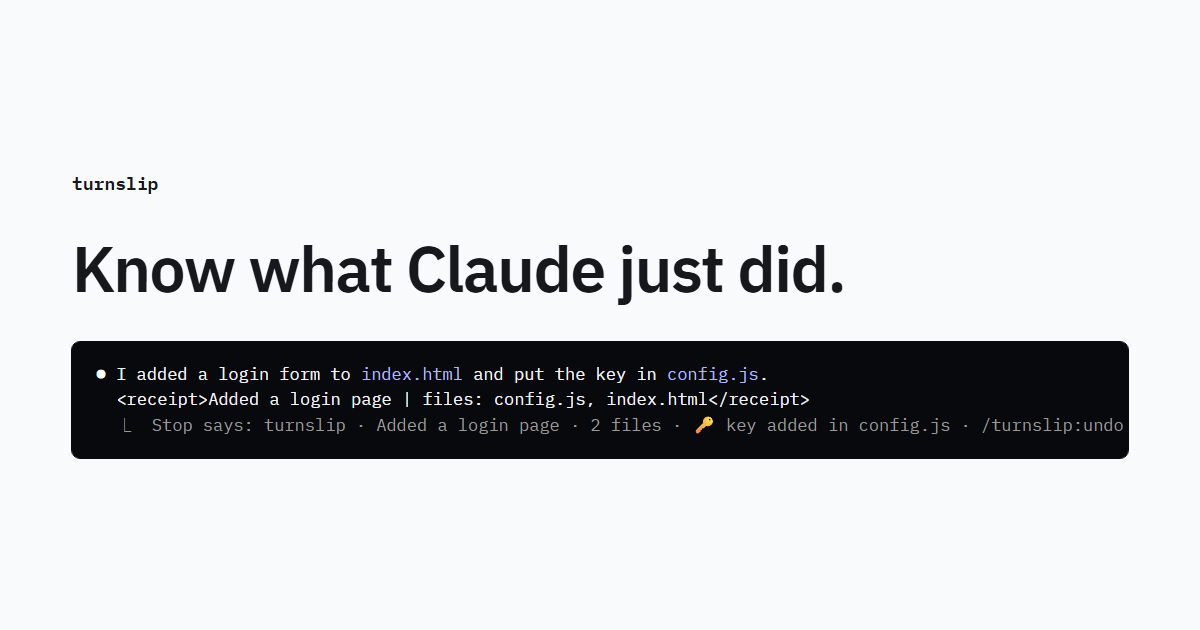
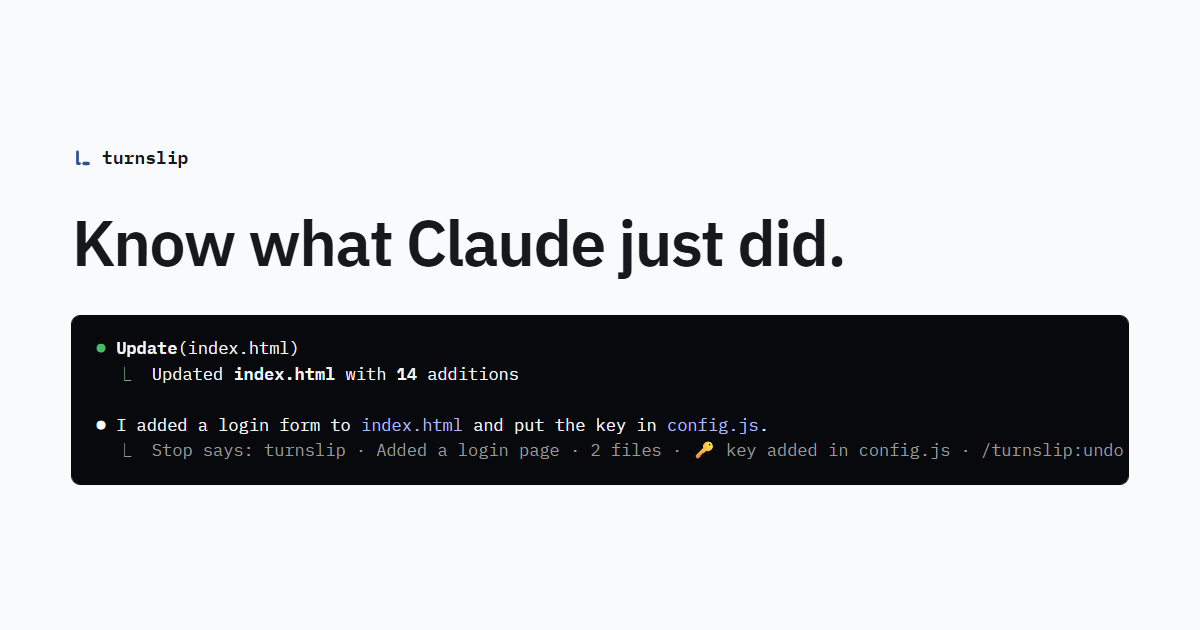
mirror: publish 224702c

Changed region(s): [[0.0617, 0.3317, 0.9558, 0.7841], [0.0617, 0.2413, 0.1542, 0.3016]]

diff --git a/site/index.html b/site/index.html
@@ -9,9 +9,10 @@
   <meta name="theme-color" content="#F9FAFB" media="(prefers-color-scheme: light)">
   <meta name="theme-color" content="#17181C" media="(prefers-color-scheme: dark)">
   <link rel="icon" href="/favicon.svg" type="image/svg+xml">
+  <link rel="apple-touch-icon" href="/apple-touch-icon.png">
   <link rel="preload" href="/fonts/plex-sans-latin-wght.v530.woff2" as="font" type="font/woff2" crossorigin>
   <link rel="preload" href="/fonts/plex-mono-latin-400.v530.woff2" as="font" type="font/woff2" crossorigin>
-  <link rel="stylesheet" href="/style.v1.css">
+  <link rel="stylesheet" href="/style.v2.css">
   <meta property="og:type" content="website">
   <meta property="og:url" content="https://turnslip.dev/">
   <meta property="og:title" content="turnslip: know what Claude just did">
@@ -38,7 +39,7 @@
   <!--email_off-->
   <a class="skip" href="#main">Skip to content</a>
   <header class="site">
-    <a class="brand" href="/">turnslip</a>
+    <a class="brand" href="/"><svg class="mark" viewBox="0 0 32 32" aria-hidden="true" focusable="false"><path d="M8 7v17h3" fill="none" stroke="currentColor" stroke-width="4" stroke-linecap="round" stroke-linejoin="round"/><rect x="15" y="21.5" width="11" height="5" rx="2.5" fill="currentColor"/></svg>turnslip</a>
     <nav aria-label="Site">
       <a href="/#how">How it works</a>
       <a href="/#pricing">Pricing</a>
@@ -66,7 +67,6 @@
 <span class="cc-dim">  ⎿</span>  Updated <b>index.html</b> with <b>14</b> additions
 
 <span class="cc-reply">●</span> I added a login form to <span class="cc-file">index.html</span> and put the key in <span class="cc-file">config.js</span>.
-  &lt;receipt&gt;Added a login page | files: config.js, index.html&lt;/receipt&gt;
 <span class="slip">  ⎿  Stop says: turnslip · Added a login page · 2 files · 🔑 key added in config.js · /turnslip:undo</span></div>
       </figure>
       <p class="callout" id="how">This line is turnslip. It lists what changed on disk, flags the risky parts, and names the undo.</p>

diff --git a/site/og.html b/site/og.html
@@ -3,13 +3,15 @@
 <head>
   <meta charset="utf-8">
   <title>turnslip social image</title>
-  <link rel="stylesheet" href="/style.v1.css">
+  <link rel="stylesheet" href="/style.v2.css">
 </head>
 <body class="og">
-  <p class="brand">turnslip</p>
+  <p class="brand"><svg class="mark" viewBox="0 0 32 32" aria-hidden="true" focusable="false"><path d="M8 7v17h3" fill="none" stroke="currentColor" stroke-width="4" stroke-linecap="round" stroke-linejoin="round"/><rect x="15" y="21.5" width="11" height="5" rx="2.5" fill="currentColor"/></svg>turnslip</p>
   <h1 class="display">Know what Claude just did.</h1>
-  <div class="term"><span class="cc-reply">●</span> I added a login form to <span class="cc-file">index.html</span> and put the key in <span class="cc-file">config.js</span>.
-  &lt;receipt&gt;Added a login page | files: config.js, index.html&lt;/receipt&gt;
+  <div class="term"><span class="cc-tool">●</span> <b>Update</b>(index.html)
+<span class="cc-dim">  ⎿</span>  Updated <b>index.html</b> with <b>14</b> additions
+
+<span class="cc-reply">●</span> I added a login form to <span class="cc-file">index.html</span> and put the key in <span class="cc-file">config.js</span>.
 <span class="slip">  ⎿  Stop says: turnslip · Added a login page · 2 files · 🔑 key added in config.js · /turnslip:undo</span></div>
 </body>
 </html>

diff --git a/site/404.html b/site/404.html
@@ -9,15 +9,16 @@
   <meta name="theme-color" content="#F9FAFB" media="(prefers-color-scheme: light)">
   <meta name="theme-color" content="#17181C" media="(prefers-color-scheme: dark)">
   <link rel="icon" href="/favicon.svg" type="image/svg+xml">
+  <link rel="apple-touch-icon" href="/apple-touch-icon.png">
   <link rel="preload" href="/fonts/plex-sans-latin-wght.v530.woff2" as="font" type="font/woff2" crossorigin>
   <link rel="preload" href="/fonts/plex-mono-latin-400.v530.woff2" as="font" type="font/woff2" crossorigin>
-  <link rel="stylesheet" href="/style.v1.css">
+  <link rel="stylesheet" href="/style.v2.css">
 </head>
 <body>
   <!--email_off-->
   <a class="skip" href="#main">Skip to content</a>
   <header class="site">
-    <a class="brand" href="/">turnslip</a>
+    <a class="brand" href="/"><svg class="mark" viewBox="0 0 32 32" aria-hidden="true" focusable="false"><path d="M8 7v17h3" fill="none" stroke="currentColor" stroke-width="4" stroke-linecap="round" stroke-linejoin="round"/><rect x="15" y="21.5" width="11" height="5" rx="2.5" fill="currentColor"/></svg>turnslip</a>
     <nav aria-label="Site">
       <a href="/#how">How it works</a>
       <a href="/#pricing">Pricing</a>

diff --git a/site/privacy.html b/site/privacy.html
@@ -9,15 +9,16 @@
   <meta name="theme-color" content="#F9FAFB" media="(prefers-color-scheme: light)">
   <meta name="theme-color" content="#17181C" media="(prefers-color-scheme: dark)">
   <link rel="icon" href="/favicon.svg" type="image/svg+xml">
+  <link rel="apple-touch-icon" href="/apple-touch-icon.png">
   <link rel="preload" href="/fonts/plex-sans-latin-wght.v530.woff2" as="font" type="font/woff2" crossorigin>
   <link rel="preload" href="/fonts/plex-mono-latin-400.v530.woff2" as="font" type="font/woff2" crossorigin>
-  <link rel="stylesheet" href="/style.v1.css">
+  <link rel="stylesheet" href="/style.v2.css">
 </head>
 <body>
   <!--email_off-->
   <a class="skip" href="#main">Skip to content</a>
   <header class="site">
-    <a class="brand" href="/">turnslip</a>
+    <a class="brand" href="/"><svg class="mark" viewBox="0 0 32 32" aria-hidden="true" focusable="false"><path d="M8 7v17h3" fill="none" stroke="currentColor" stroke-width="4" stroke-linecap="round" stroke-linejoin="round"/><rect x="15" y="21.5" width="11" height="5" rx="2.5" fill="currentColor"/></svg>turnslip</a>
     <nav aria-label="Site">
       <a href="/#how">How it works</a>
       <a href="/#pricing">Pricing</a>

diff --git a/site/refunds.html b/site/refunds.html
@@ -9,15 +9,16 @@
   <meta name="theme-color" content="#F9FAFB" media="(prefers-color-scheme: light)">
   <meta name="theme-color" content="#17181C" media="(prefers-color-scheme: dark)">
   <link rel="icon" href="/favicon.svg" type="image/svg+xml">
+  <link rel="apple-touch-icon" href="/apple-touch-icon.png">
   <link rel="preload" href="/fonts/plex-sans-latin-wght.v530.woff2" as="font" type="font/woff2" crossorigin>
   <link rel="preload" href="/fonts/plex-mono-latin-400.v530.woff2" as="font" type="font/woff2" crossorigin>
-  <link rel="stylesheet" href="/style.v1.css">
+  <link rel="stylesheet" href="/style.v2.css">
 </head>
 <body>
   <!--email_off-->
   <a class="skip" href="#main">Skip to content</a>
   <header class="site">
-    <a class="brand" href="/">turnslip</a>
+    <a class="brand" href="/"><svg class="mark" viewBox="0 0 32 32" aria-hidden="true" focusable="false"><path d="M8 7v17h3" fill="none" stroke="currentColor" stroke-width="4" stroke-linecap="round" stroke-linejoin="round"/><rect x="15" y="21.5" width="11" height="5" rx="2.5" fill="currentColor"/></svg>turnslip</a>
     <nav aria-label="Site">
       <a href="/#how">How it works</a>
       <a href="/#pricing">Pricing</a>

diff --git a/site/terms.html b/site/terms.html
@@ -9,15 +9,16 @@
   <meta name="theme-color" content="#F9FAFB" media="(prefers-color-scheme: light)">
   <meta name="theme-color" content="#17181C" media="(prefers-color-scheme: dark)">
   <link rel="icon" href="/favicon.svg" type="image/svg+xml">
+  <link rel="apple-touch-icon" href="/apple-touch-icon.png">
   <link rel="preload" href="/fonts/plex-sans-latin-wght.v530.woff2" as="font" type="font/woff2" crossorigin>
   <link rel="preload" href="/fonts/plex-mono-latin-400.v530.woff2" as="font" type="font/woff2" crossorigin>
-  <link rel="stylesheet" href="/style.v1.css">
+  <link rel="stylesheet" href="/style.v2.css">
 </head>
 <body>
   <!--email_off-->
   <a class="skip" href="#main">Skip to content</a>
   <header class="site">
-    <a class="brand" href="/">turnslip</a>
+    <a class="brand" href="/"><svg class="mark" viewBox="0 0 32 32" aria-hidden="true" focusable="false"><path d="M8 7v17h3" fill="none" stroke="currentColor" stroke-width="4" stroke-linecap="round" stroke-linejoin="round"/><rect x="15" y="21.5" width="11" height="5" rx="2.5" fill="currentColor"/></svg>turnslip</a>
     <nav aria-label="Site">
       <a href="/#how">How it works</a>
       <a href="/#pricing">Pricing</a>

diff --git a/site/style.v2.css b/site/style.v2.css
@@ -132,7 +132,8 @@ header.site, main, footer.site { max-width: 1120px; margin-inline: auto; padding
 @media (min-width: 768px) { header.site, main, footer.site { padding-inline: 32px; } }
 
 header.site { display: flex; flex-wrap: wrap; align-items: center; justify-content: space-between; gap: 12px 24px; padding-block: 20px; }
-.brand { font: 600 1.125rem var(--mono); color: var(--head); text-decoration: none; }
+.brand { display: inline-flex; align-items: center; gap: 8px; font: 600 1.125rem var(--mono); color: var(--head); text-decoration: none; }
+.mark { width: 22px; height: 22px; flex: none; color: var(--link); }
 header.site nav, footer.site nav { display: flex; flex-wrap: wrap; gap: 4px 20px; }
 header.site nav a, footer.site nav a { color: var(--muted); text-decoration: none; padding-block: 12px; }
 header.site nav a:hover, footer.site nav a:hover { color: var(--head); }
